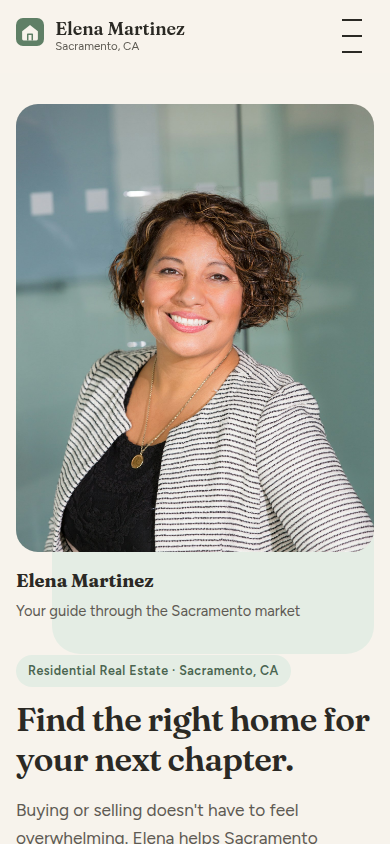
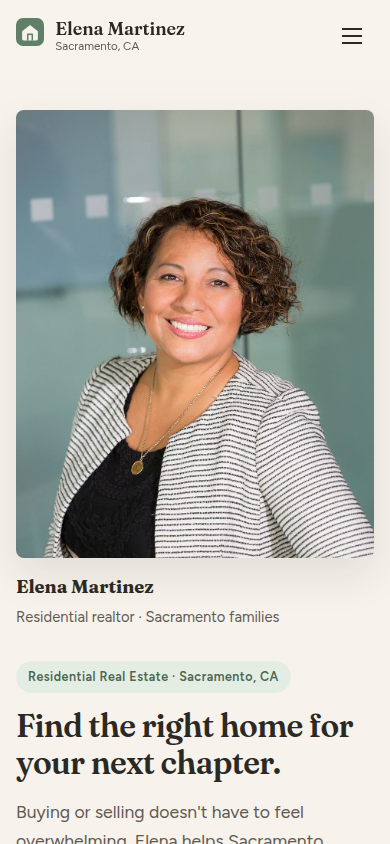
Tighten contrast, accessibility, and mobile hero crop
Darken seller and guide CTAs, announce process steps once,
and keep first-screen CTAs closer on phones.

diff --git a/index.html b/index.html
@@ -120,30 +120,37 @@
 
         <ol class="buyer-timeline reveal">
           <li>
+            <span class="step-num" aria-hidden="true"></span>
             <h3>Understand your budget</h3>
             <p>What you can comfortably afford here, what happens first, and what a realistic Sacramento timeline looks like.</p>
           </li>
           <li>
+            <span class="step-num" aria-hidden="true"></span>
             <h3>Explore neighborhoods</h3>
             <p>Schools, commutes, parks, and the everyday feel of a street — not just a pin on a map.</p>
           </li>
           <li>
+            <span class="step-num" aria-hidden="true"></span>
             <h3>Tour homes</h3>
             <p>Weekend walkthroughs planned so you can compare houses without rushing or guessing.</p>
           </li>
           <li>
+            <span class="step-num" aria-hidden="true"></span>
             <h3>Build an offer</h3>
             <p>A clear number, clean terms, and a plan for how the other side is likely to respond.</p>
           </li>
           <li>
+            <span class="step-num" aria-hidden="true"></span>
             <h3>Complete inspections</h3>
             <p>What to look for, what to negotiate, and what is normal wear in a family home.</p>
           </li>
           <li>
+            <span class="step-num" aria-hidden="true"></span>
             <h3>Negotiate</h3>
             <p>Repairs, credits, and timing handled in writing so you are never left hoping.</p>
           </li>
           <li>
+            <span class="step-num" aria-hidden="true"></span>
             <h3>Close</h3>
             <p>A simple calendar through signing day, plus the small details that make move-in feel settled.</p>
           </li>
@@ -277,26 +284,32 @@
 
         <ol class="seller-path reveal">
           <li>
+            <span class="step-num" aria-hidden="true"></span>
             <strong>Goals</strong>
             <span>Why you're moving, and when you need to be out.</span>
           </li>
           <li>
+            <span class="step-num" aria-hidden="true"></span>
             <strong>Pricing</strong>
             <span>A number grounded in recent family-home sales.</span>
           </li>
           <li>
+            <span class="step-num" aria-hidden="true"></span>
             <strong>Preparation</strong>
             <span>What to fix, what to leave, and how it should photograph.</span>
           </li>
           <li>
+            <span class="step-num" aria-hidden="true"></span>
             <strong>Marketing</strong>
             <span>Neighbors, buyers already searching, and a clear launch week.</span>
           </li>
           <li>
+            <span class="step-num" aria-hidden="true"></span>
             <strong>Negotiation</strong>
             <span>Terms, timing, and repairs that protect your proceeds.</span>
           </li>
           <li>
+            <span class="step-num" aria-hidden="true"></span>
             <strong>Closing</strong>
             <span>One calendar through signing — and into the next house if you need it.</span>
           </li>

diff --git a/styles.css b/styles.css
@@ -5,8 +5,8 @@
   --sage: #5f7f66;
   --sage-deep: #4a6550;
   --sage-wash: #e4ede4;
-  --clay: #c36b4a;
-  --clay-deep: #a85638;
+  --clay: #9a4a30;
+  --clay-deep: #7e3c26;
   --ink: #2b2924;
   --muted: #5e5a53;
   --line: #d9d1c4;
@@ -521,7 +521,7 @@ textarea:focus-visible,
   padding-bottom: 0;
 }
 
-.buyer-timeline li::before {
+.buyer-timeline .step-num::before {
   counter-increment: buy-step;
   content: counter(buy-step);
   position: absolute;
@@ -671,7 +671,7 @@ textarea:focus-visible,
   flex-direction: column;
   justify-content: flex-end;
   padding: 1.4rem 1.25rem 1.3rem;
-  background: linear-gradient(180deg, rgba(43, 41, 36, 0.05) 20%, rgba(43, 41, 36, 0.78) 100%);
+  background: linear-gradient(180deg, rgba(43, 41, 36, 0.12) 15%, rgba(43, 41, 36, 0.82) 100%);
 }
 
 .hood-tag {
@@ -732,7 +732,7 @@ textarea:focus-visible,
   border-bottom: 0;
 }
 
-.seller-path li::before {
+.seller-path .step-num::before {
   counter-increment: sell-step;
   content: counter(sell-step);
   position: absolute;
@@ -1114,7 +1114,7 @@ label.is-error textarea {
 .reveal {
   opacity: 0;
   transform: translateY(16px);
-  transition: opacity 0.6s var(--ease), transform 0.6s var(--ease);
+  transition: opacity 0.4s var(--ease), transform 0.4s var(--ease);
 }
 
 .reveal.is-visible {
@@ -1217,6 +1217,11 @@ label.is-error textarea {
 
 
 @media (max-width: 759px) {
+  .portrait-frame {
+    aspect-ratio: 4 / 4.05;
+    max-height: 320px;
+  }
+
   .hero-copy h1 {
     font-size: clamp(1.95rem, 8.2vw, 2.45rem);
   }
@@ -1243,4 +1248,17 @@ label.is-error textarea {
   .section-intro {
     margin-bottom: 1.5rem;
   }
+}
+
+.seller .seller-copy > p {
+  color: #3f3b35;
+}
+
+.guide-form .btn-primary {
+  background: #f7f3ec;
+  color: #3d5342;
+}
+.guide-form .btn-primary:hover {
+  background: #fff;
+  color: #2b2924;
 }

diff --git a/script.js b/script.js
@@ -123,9 +123,17 @@
     );
 
     document.querySelectorAll(".reveal").forEach(function (el, index) {
-      el.style.transitionDelay = Math.min(index % 3, 2) * 80 + "ms";
+      el.style.transitionDelay = Math.min(index % 3, 2) * 40 + "ms";
       revealObserver.observe(el);
     });
+    window.setTimeout(function () {
+      document.querySelectorAll(".reveal").forEach(function (el) {
+        var rect = el.getBoundingClientRect();
+        if (rect.top < window.innerHeight && rect.bottom > 0) {
+          el.classList.add("is-visible");
+        }
+      });
+    }, 120);
   } else {
     document.querySelectorAll(".reveal").forEach(function (el) {
       el.classList.add("is-visible");
